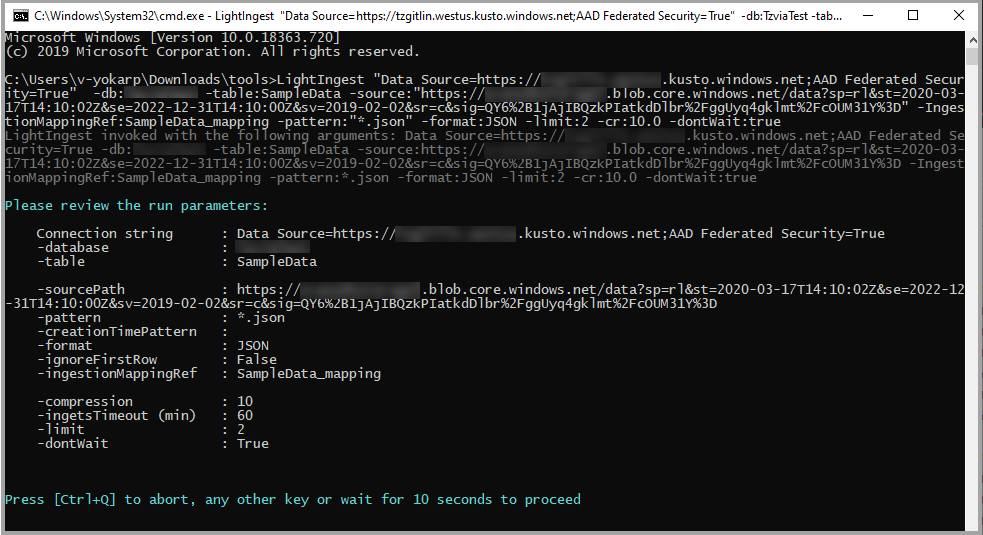
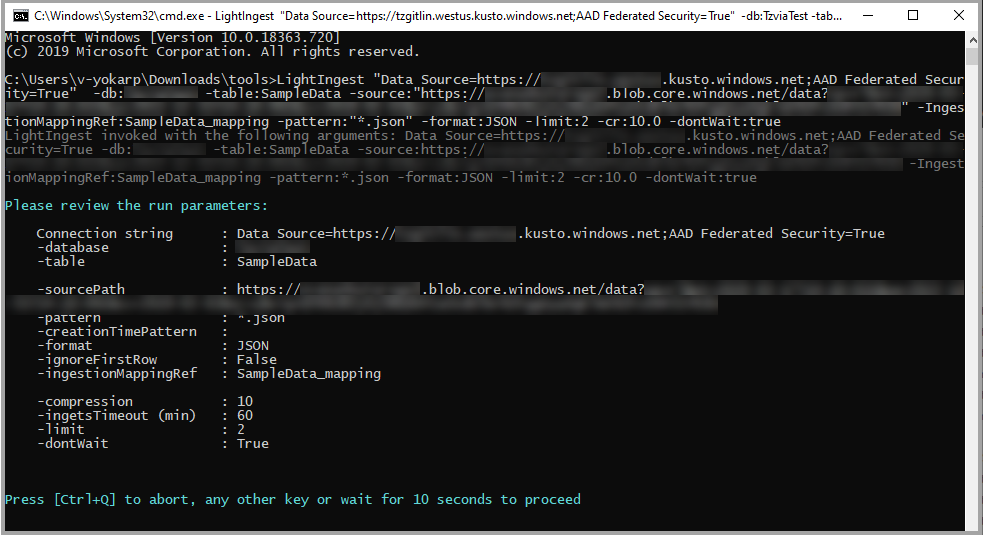
Added content from Vladik + Ornat + updated image

Changed region(s): [[0.0, 0.5084, 0.9766, 0.5981], [0.0, 0.1495, 0.9766, 0.2393], [0.0, 0.2692, 0.9766, 0.329]]

diff --git a/data-explorer/lightingest.md b/data-explorer/lightingest.md
@@ -44,7 +44,7 @@ The utility can pull source data from a local folder or from an Azure blob stora
 
     For example:
     ```
-    LightIngest "Data Source=https://ingest-tzgitlin.westus.kusto.windows.net;AAD Federated Security=True"  -db:TzviaTest -table:Trips -source:"https://tzgitlinegdemo2.blob.core.windows.net/saadxworkshop1;VXPnUFzvBRLBIqEgcA0hRnSXmq69jVyZMChgUn5BeVwhjLnx4ucHZ8RPGTZ0F2hXHnC/vesoFSMF5f4gepeTJw==" -pattern:"*.csv.gz" -format:csv -limit:2 -ignoreFirst:true -cr:10.0 -dontWait:true
+    LightIngest "Data Source=https://{Cluster name and region}.kusto.windows.net;AAD Federated Security=True"  -db:{Database} -table:Trips -source:"https://{Account}.blob.core.windows.net/{ROOT_CONTAINER};{StorageAccountKey}" -pattern:"*.csv.gz" -format:csv -limit:2 -ignoreFirst:true -cr:10.0 -dontWait:true
     ```
 
 * The recommended method is for `LightIngest` to work with the ingestion endpoint at `https://ingest-{yourClusterNameAndRegion}.kusto.windows.net`. This way, the Azure Data Explorer service can manage the ingestion load, and you can easily recover from transient errors. However, you can also configure `LightIngest` to work directly with the engine endpoint (`https://{yourClusterNameAndRegion}.kusto.windows.net`).
@@ -58,14 +58,25 @@ The utility can pull source data from a local folder or from an Azure blob stora
 |-database             |-db          |string  |Optional  |Target Azure Data Explorer database name |
 |-table                |             |string  |Mandatory |Target Azure Data Explorer table name |
 |-sourcePath           |-source      |string  |Mandatory |Path to source files or root URI of the blob container. If the data is in blobs, must contain storage account key or SAS. Recommended to enclose in double quotes |
-|-prefix               |             |string  |Optional  |When the source data to ingest resides on blob storage, this URL prefix is shared by all blobs, excluding the container name. For example, if the data is in `MyContainer/Dir1/Dir2`, then the prefix should be `Dir1/Dir2`. Enclosing in double quotes is recommended |
+|-prefix               |             |string  |Optional  |When the source data to ingest resides on blob storage, this URL prefix is shared by all blobs, excluding the container name. <br>For example, if the data is in `MyContainer/Dir1/Dir2`, then the prefix should be `Dir1/Dir2`. Enclosing in double quotes is recommended |
 |-pattern              |             |string  |Optional  |Pattern by which source files/blobs are picked. Supports wildcards. For example, `"*.csv"`. Recommended to enclose in double quotes |
+|-zipPattern           |             |string  |Optional  |Regular expression to use when selecting which files in a ZIP archive to ingest.<br>All other files in the archive will be ignored.For example, `"*.csv"`. It's recommended to surround it in double quotes |
 |-format               |-f           |string  |Optional  |Source data format. Must be one of the [supported formats](https://docs.microsoft.com/azure/kusto/management/data-ingestion/#supported-data-formats) |
 |-ingestionMappingPath |-mappingPath |string  |Optional  |Path to ingestion column-mapping file (mandatory for Json and Avro formats). See [data mappings](https://docs.microsoft.com/azure/kusto/management/mappings) |
 |-ingestionMappingRef  |-mappingRef  |string  |Optional  |Name of a pre-created ingestion column mapping (mandatory for Json and Avro formats). See [data mappings](https://docs.microsoft.com/azure/kusto/management/mappings) |
+|-creationTimePattern  |             |string  |Optional  |When set, is used to extract the CreationTime property from the file or blob path. See [Using CreationTimePattern argument](#using-creationtimepattern-argument) |
 |-ignoreFirstRow       |-ignoreFirst |bool    |Optional  |If set, the first record of each file/blob is ignored (for example, if the source data has headers) |
 |-tag                  |             |string  |Optional  |[Tags](https://docs.microsoft.com/azure/kusto/management/extents-overview#extent-tagging) to associate with the ingested data. Multiple occurrences are permitted |
 |-dontWait             |             |bool    |Optional  |If set to 'true', does not wait for ingestion completion. Useful when ingesting large amounts of files/blobs |
+
+### Using CreationTimePattern argument
+
+The `-creationTimePattern` argument extracts the CreationTime property from the file or blob path. The pattern does not need to reflect the entire item path, just the section enclosing the timestamp you want to use.
+The value of the argument must contain of three sections:
+* Constant test immediately preceding the timestamp, enclosed in single quotes
+* The timestamp format, in standard [.NET DateTime notation](https://docs.microsoft.com/en-us/dotnet/standard/base-types/custom-date-and-time-format-strings)
+* Constant text immediately following the timestamp
+For example, if blob names end with 'historicalvalues19840101.parquet' (the timestamp is four digits for the year, two digits for the month and two digits for the day of month), the corresponding value for the `-creationTimePattern` argument is 'historicalvalues'yyyyMMdd'.parquet'.
 
 ### Command-line arguments for advanced scenarios
 
@@ -73,19 +84,27 @@ The utility can pull source data from a local folder or from an Azure blob stora
 |----------------------|-------------|--------|----------|-------------------------------------------|
 |-compression          |-cr          |double  |Optional  |Compression ratio hint. Useful when ingesting compressed files/blobs to help Azure Data Explorer assess the raw data size. Calculated as original size divided by compressed size |
 |-limit                |-l           |integer |Optional  |If set, limits the ingestion to first N files |
+|-listOnly             |-list        |bool    |Optional  |If set, only displays the items that would have been selected for ingestion| 
 |-ingestTimeout        |             |integer |Optional  |Timeout in minutes for all ingest operations completion. Defaults to `60`|
 |-forceSync            |             |bool    |Optional  |If set, forces synchronous ingestion. Defaults to `false` |
 |-dataBatchSize        |             |integer |Optional  |Sets the total size limit (MB, uncompressed) of each ingest operation |
 |-filesInBatch         |             |integer |Optional  |Sets the file/blob count limit of each ingest operation |
 |-devTracing           |-trace       |string  |Optional  |If set, diagnostic logs are written to a local directory (by default, `RollingLogs` in the current directory, or can be modified by setting the switch value) |
 
+## Blob metadata properties
+When used with Azure blobs, `LightIngest` will use certain blob metadata properties to augment the ingestion process.
+|Metadata property                            | Usage                                                                           |
+|---------------------------------------------|---------------------------------------------------------------------------------|
+|`rawSizeBytes`, `kustoUncompressedSizeBytes` | If set, will be interpreted as the uncompressed data size                       |
+|`kustoCreationTime`, `kustoCreationTimeUtc`  | Interpreted as UTC timestamp. If set, will be used to override the creation time in Kusto. Useful for backfilling scenarios |
+
 ## Usage examples
 
-**Ingesting a specific number of blobs in JSON format**
+### Ingesting a specific number of blobs in JSON format
 
-* Ingest two blobs under a specified storage account {Account}, files of `JSON` format matching the pattern `.json`
+* Ingest two blobs under a specified storage account {Account}, in `JSON` format matching the pattern `.json`
 * Destination is the database {Database}, the table `SampleData`
-* Data will be ingested at a compression ratio of 10.0
+* Indicate that your data is compressed with the approximate ratio of 10.0
 * LightIngest won't wait for the ingestion to be completed
 
 To use the LightIngest command below:
@@ -93,13 +112,13 @@ To use the LightIngest command below:
 1. Create a mapping command and enter the IngestionMappingRef command, replacing `SampleData_mapping`.
 1. Copy your cluster name and enter it into the LightIngest command, replacing `{Cluster Name and Region}`.
 1. Enter the database name into the LightIngest command, replacing `{Database}`.
-1. Replace `{Account}` with your account name.
+1. Replace `{Account}` with your account name and replace `{ROOT_CONTAINER}?{SAS token}` with the appropriate information.
 
     ```
     LightIngest "Data Source=https://{Cluster name and region}kusto.windows.net;AAD Federated Security=True"  
         -db:{Database name} 
         -table:SampleData 
-        -source:"https://{Account}.blob.core.windows.net/data?sp=rl&st=2020-03-17T14:10:02Z&se=2022-12-31T14:10:00Z&sv=2019-02-02&sr=c&sig=QY6%2B1jAjIBQzkPIatkdDlbr%2FggUyq4gklmt%2FcOUM31Y%3D" 
+        -source:"https://{Account}.blob.core.windows.net/{ROOT_CONTAINER}?{SAS token}" 
         -IngestionMappingRef:SampleData_mapping 
         -pattern:"*.json" 
         -format:JSON 
@@ -113,7 +132,7 @@ To use the LightIngest command below:
 1. In Azure Data Explorer, open query count.
     ![Injestion result in Azure Data Explorer](media/lightingest/lightingest-showfailure-count.png)
 
-**Ingesting blobs using a storage account key or a SAS token**
+### Ingesting blobs using a storage account key or a SAS token
 
 * Ingest 10 blobs under specified storage account `ACCOUNT`, in folder `DIR`, under container `CONT`, and matching the pattern `*.csv.gz`
 * Destination is database `DB`, table `TABLE`, and the ingestion mapping `MAPPING` is precreated on the destination
@@ -141,7 +160,7 @@ LightIngest.exe "https://ingest-{clusterAndRegion}.kusto.windows.net;Fed=True;In
   -limit:10
 ```
 
-**Ingesting all blobs in a container, not including header rows**
+### Ingesting all blobs in a container, not including header rows
 
 * Ingest all blobs under specified storage account `ACCOUNT`, in folder `DIR1/DIR2`, under container `CONT`, and matching the pattern `*.csv.gz`
 * Destination is database `DB`, table `TABLE`, and the ingestion mapping `MAPPING` is precreated on the destination
@@ -160,7 +179,7 @@ LightIngest.exe "https://ingest-{clusterAndRegion}.kusto.windows.net;Fed=True"
   -ignoreFirstRow:true
 ```
 
-**Ingesting all JSON files from a path**
+### Ingesting all JSON files from a path
 
 * Ingest all files under path `PATH`, matching the pattern `*.json`
 * Destination is database `DB`, table `TABLE`, and the ingestion mapping is defined in local file `MAPPING_FILE_PATH`
@@ -176,7 +195,7 @@ LightIngest.exe "https://ingest-{clusterAndRegion}.kusto.windows.net;Fed=True"
   -mappingPath:"MAPPING_FILE_PATH"
 ```
 
-**Ingesting files and writing diagnostic trace files**
+### Ingesting files and writing diagnostic trace files
 
 * Ingest all files under path `PATH`, matching the pattern `*.json`
 * Destination is database `DB`, table `TABLE`, and the ingestion mapping is defined in local file `MAPPING_FILE_PATH`
@@ -193,3 +212,7 @@ LightIngest.exe "https://ingest-{clusterAndRegion}.kusto.windows.net;Fed=True"
   -mappingPath:"MAPPING_FILE_PATH"
   -trace:"LOGS_PATH"
 ```
+## Changelog
+|Version        |Changes                                                                             |
+|---------------|------------------------------------------------------------------------------------|
+|4.0.9.0        |<ul><li>Added `-zipPattern` argument</li><li>Added `-listOnly` argument</li><li>Arguments summary is displayed before run is commenced</li><li>CreationTime is read from blob metadata properties or from blob or file name, according to the `-creationTimePattern` argument</li></ul>|
